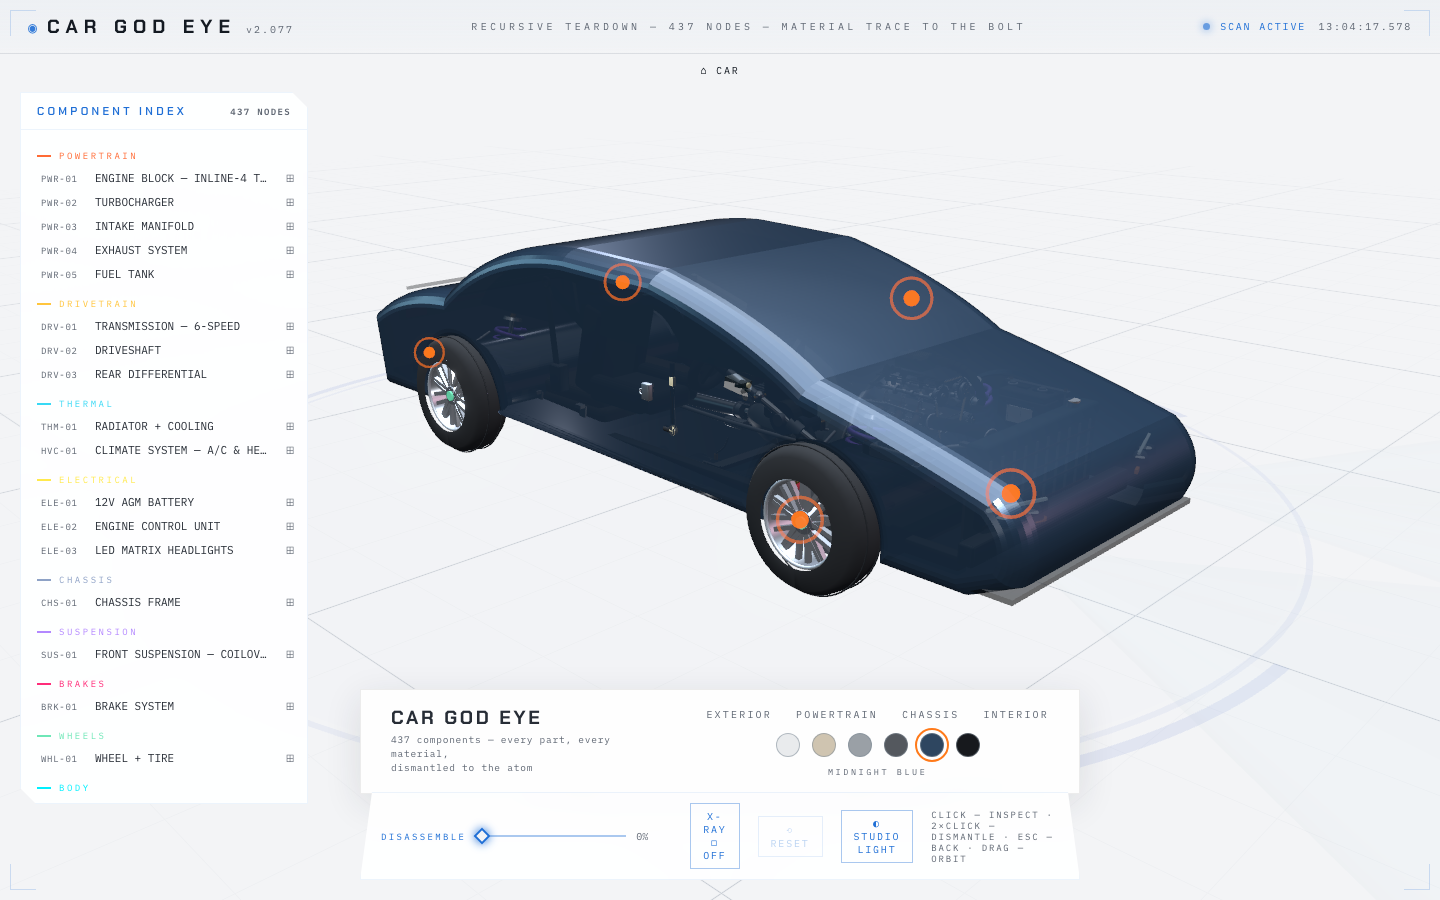
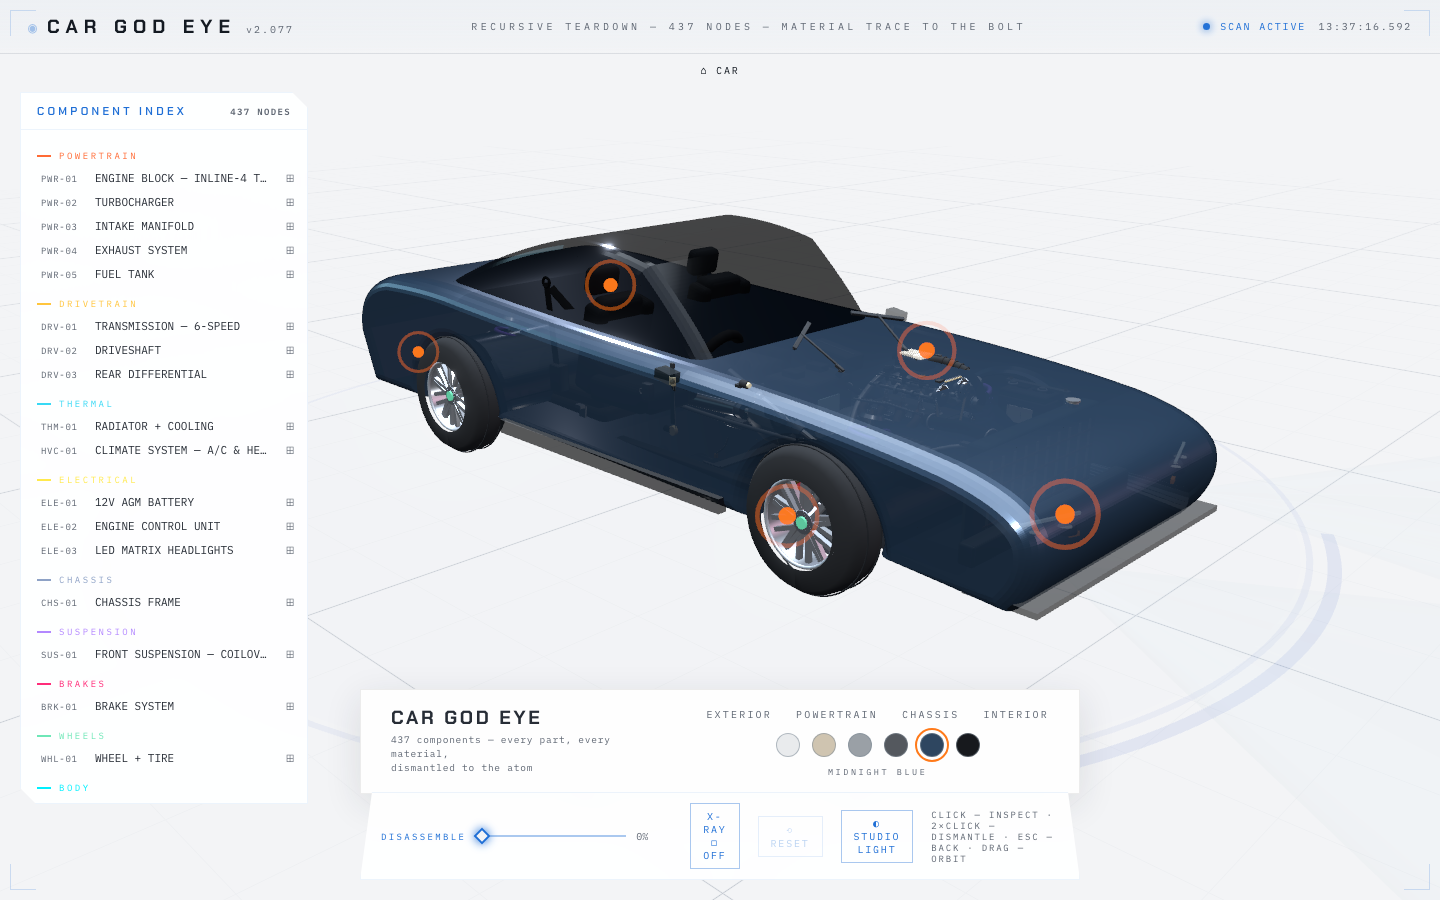
Real car body: fastback GT silhouette, smoked glass canopy, layered paint
- Lower body rebuilt: long hood, beltline, nose/tail fascias, decklid,
  oversized wheel-arch cuts (extrude bevel shrinks concave cuts at the
  outer skin, so arches are cut larger than the tires)
- Separate narrow greenhouse extrusion: raked windshield, glass roof,
  fastback — real tumblehome instead of the old one-box blob
- Smoked glass: black metal + damped envMapIntensity (HDR studio panels
  otherwise reflect as a flat grey sheet)
- Explicit transparency layering inside the shell PartGroup: body 10,
  trim 11, glass 12 — depth-sorted transparency let the far body wall
  paint over the canopy and the taillight bar
- Trim refit: mirrors to the A-pillar, rocker strips, repositioned
  splitter/diffuser/taillight bar/ducktail/headlights, hotspots on the
  new surfaces

Changed region(s): [[0.25, 0.2178, 0.8438, 0.6844], [0.3438, 0.4667, 0.5938, 0.6222], [0.5938, 0.6222, 0.6562, 0.6533]]

diff --git a/src/scene/CarModel.tsx b/src/scene/CarModel.tsx
@@ -48,51 +48,58 @@ function BayMount({ children }: { children: React.ReactNode }) {
 
 function useBodyGeo() {
   return useMemo(() => {
+    // lower body: tail → decklid → beltline → hood → nose, then rocker with
+    // wheel arches. NOTE the extrude bevel inflates the contour outward at the
+    // side skins, which SHRINKS concave cuts — arches are oversized to stay
+    // open around the tires at the visible skin.
     const s = new THREE.Shape()
-    s.moveTo(-2.15, 0.3)
-    s.lineTo(-2.2, 0.62)
-    s.quadraticCurveTo(-1.9, 0.8, -1.45, 0.82)
-    s.quadraticCurveTo(-1.0, 1.18, -0.35, 1.2)
-    s.lineTo(0.3, 1.18)
-    s.quadraticCurveTo(0.9, 1.05, 1.25, 0.84)
-    s.quadraticCurveTo(1.8, 0.72, 2.2, 0.6)
-    s.quadraticCurveTo(2.32, 0.5, 2.27, 0.38)
-    s.lineTo(2.1, 0.3)
-    s.lineTo(1.77, 0.3)
-    s.absarc(1.35, 0.3, 0.42, 0, Math.PI, false)
-    s.lineTo(-0.93, 0.3)
-    s.absarc(-1.35, 0.3, 0.42, 0, Math.PI, false)
+    s.moveTo(-2.22, 0.3) // rear bumper bottom
+    s.lineTo(-2.32, 0.56) // rear fascia
+    s.quadraticCurveTo(-2.33, 0.8, -2.0, 0.86) // tail corner
+    s.quadraticCurveTo(-1.6, 0.885, -1.28, 0.858) // decklid / rear haunch
+    s.quadraticCurveTo(-0.4, 0.8, 0.55, 0.78) // beltline → cowl
+    s.quadraticCurveTo(1.5, 0.748, 2.02, 0.675) // hood
+    s.quadraticCurveTo(2.33, 0.62, 2.37, 0.52) // nose tip
+    s.quadraticCurveTo(2.4, 0.42, 2.3, 0.3) // front bumper
+    s.lineTo(1.818, 0.3) // to front arch
+    s.absarc(1.35, 0.26, 0.47, 0.0853, Math.PI - 0.0853, false) // front arch
+    s.lineTo(-0.882, 0.3) // rocker
+    s.absarc(-1.35, 0.26, 0.47, 0.0853, Math.PI - 0.0853, false) // rear arch
     s.closePath()
     const geo = new THREE.ExtrudeGeometry(s, {
-      depth: 1.3,
+      depth: 1.4,
       bevelEnabled: true,
-      bevelThickness: 0.14,
-      bevelSize: 0.1,
-      bevelSegments: 7,
-      curveSegments: 40,
+      bevelThickness: 0.13,
+      bevelSize: 0.08,
+      bevelSegments: 6,
+      curveSegments: 48,
     })
-    geo.translate(0, 0, -0.65)
+    geo.translate(0, 0, -0.7)
     return geo
   }, [])
 }
 
 function useGlassGeo() {
   return useMemo(() => {
+    // greenhouse: raked windshield → glass roof → fastback. Extruded narrower
+    // than the body for tumblehome; base line sits on the beltline.
+    // wound clockwise like the body profile — the reverse winding flips the
+    // extrusion's side-wall normals and the canopy renders inside-out
     const s = new THREE.Shape()
-    s.moveTo(-1.38, 0.84)
-    s.quadraticCurveTo(-1.0, 1.15, -0.36, 1.17)
-    s.lineTo(0.28, 1.15)
-    s.quadraticCurveTo(0.85, 1.02, 1.16, 0.84)
+    s.moveTo(-1.7, 0.872) // fastback base
+    s.quadraticCurveTo(-1.1, 1.17, -0.5, 1.295) // fastback glass
+    s.quadraticCurveTo(-0.18, 1.3, 0.08, 1.24) // roof
+    s.quadraticCurveTo(0.42, 0.95, 0.52, 0.775) // windshield → cowl
     s.closePath()
     const geo = new THREE.ExtrudeGeometry(s, {
-      depth: 1.0,
+      depth: 1.2,
       bevelEnabled: true,
       bevelThickness: 0.1,
-      bevelSize: 0.08,
+      bevelSize: 0.07,
       bevelSegments: 5,
-      curveSegments: 32,
+      curveSegments: 36,
     })
-    geo.translate(0, 0, -0.5)
+    geo.translate(0, -0.045, -0.6) // sink the base into the beltline — no seam
     return geo
   }, [])
 }
@@ -464,8 +471,8 @@ function Ecu() {
 function Headlights() {
   return (
     <PartGroup id="headlights" explode={[1.1, 0.35, 0]}>
-      {[0.52, -0.52].map((z) => (
-        <group key={z} position={[2.17, 0.52, z]} rotation={[0, -Math.sign(z) * 0.32, 0]}>
+      {[0.54, -0.54].map((z) => (
+        <group key={z} position={[2.33, 0.51, z]} rotation={[0, -Math.sign(z) * 0.32, 0]}>
           {/* smoked housing */}
           <RBox args={[0.07, 0.1, 0.34]} radius={0.02} smoothness={3}>
             <Mat color="#0a0e14" e={0.03} metal={0.3} rough={0.3} opacity={0.65} depthWrite={false} />
@@ -515,7 +522,7 @@ function Headlights() {
 const HOLO_SHELL = new THREE.Color('#071c26')
 const HOLO_SHELL_E = new THREE.Color('#00f0ff')
 const GLASS_HOLO = new THREE.Color('#03141c')
-const GLASS_SOLID = new THREE.Color('#0b1016')
+const GLASS_SOLID = new THREE.Color('#06080c')
 
 function BodyShell() {
   const geo = useBodyGeo()
@@ -543,15 +550,23 @@ function BodyShell() {
     }
     const g = glassMat.current
     if (g) {
-      g.userData.baseO = showroom ? 0.88 : xray ? 0.04 : 0.3
+      g.userData.baseO = showroom ? 0.94 : xray ? 0.04 : 0.3
+      g.userData.baseE = showroom ? 0 : 0.04
       g.color.lerp(showroom ? GLASS_SOLID : GLASS_HOLO, k)
+      // smoked glass: black metal + damped env, or the HDR studio panels
+      // reflect as a washed-out grey sheet
+      g.metalness = showroom ? 1.0 : 0
+      g.roughness = showroom ? 0.08 : 0.06
+      g.envMapIntensity = showroom ? 0.5 : 1
     }
   })
 
   return (
     <PartGroup id="bodyshell" explode={[0, 1.6, 0]} passThrough={passThrough} renderOrder={10}>
-      {/* main shell */}
-      <mesh geometry={geo}>
+      {/* main shell — explicit renderOrder: the glass must blend AFTER the
+          body or the far body wall paints over the canopy (glass writes no
+          depth) */}
+      <mesh geometry={geo} renderOrder={10}>
         <meshPhysicalMaterial
           ref={shellMat}
           color="#071c26"
@@ -568,7 +583,7 @@ function BodyShell() {
         />
       </mesh>
       {/* glass canopy */}
-      <mesh geometry={glassGeo} scale={[1, 1, 0.94]}>
+      <mesh geometry={glassGeo} scale={[1, 1, 0.94]} renderOrder={12}>
         <meshPhysicalMaterial
           ref={glassMat}
           color="#03141c"
@@ -582,56 +597,63 @@ function BodyShell() {
         />
       </mesh>
       {/* mirrors */}
-      {[0.84, -0.84].map((z) => (
-        <group key={z} position={[0.95, 0.88, z]} rotation={[0, 0, -0.15]}>
-          <mesh>
+      {[0.87, -0.87].map((z) => (
+        <group key={z} position={[0.52, 0.84, z]} rotation={[0, 0, -0.15]}>
+          <mesh renderOrder={11}>
             <boxGeometry args={[0.1, 0.05, 0.07]} />
             <Mat color="#0d2a36" e={0.15} metal={0.4} rough={0.3} opacity={0.75} />
           </mesh>
-          <mesh position={[0.02, -0.05, -Math.sign(z) * 0.03]} rotation={[Math.sign(z) * 0.5, 0, 0]}>
+          <mesh renderOrder={11} position={[0.02, -0.05, -Math.sign(z) * 0.03]} rotation={[Math.sign(z) * 0.5, 0, 0]}>
             <boxGeometry args={[0.015, 0.06, 0.02]} />
             <Mat color="#0d2a36" e={0.12} opacity={0.75} />
           </mesh>
         </group>
       ))}
       {/* front splitter */}
-      <mesh position={[2.2, 0.27, 0]}>
-        <boxGeometry args={[0.3, 0.025, 1.52]} />
+      <mesh renderOrder={11} position={[2.3, 0.26, 0]}>
+        <boxGeometry args={[0.34, 0.028, 1.56]} />
         <Mat color="#10151d" e={0.08} rough={0.6} opacity={0.85} depthWrite={false} />
       </mesh>
+      {/* rocker trim (visual lightness under the doors) */}
+      {[0.84, -0.84].map((z) => (
+        <mesh key={z} renderOrder={11} position={[0, 0.275, z]}>
+          <boxGeometry args={[1.7, 0.075, 0.05]} />
+          <Mat color="#10151d" e={0.06} rough={0.7} opacity={0.9} depthWrite={false} />
+        </mesh>
+      ))}
       {/* rear diffuser + fins */}
-      <mesh position={[-2.1, 0.28, 0]} rotation={[0, 0, -0.12]}>
-        <boxGeometry args={[0.26, 0.025, 1.4]} />
+      <mesh renderOrder={11} position={[-2.18, 0.27, 0]} rotation={[0, 0, -0.12]}>
+        <boxGeometry args={[0.26, 0.025, 1.44]} />
         <Mat color="#10151d" e={0.08} rough={0.6} opacity={0.85} depthWrite={false} />
       </mesh>
       {[-0.4, 0, 0.4].map((z) => (
-        <mesh key={z} position={[-2.1, 0.23, z]} rotation={[0, 0, -0.12]}>
+        <mesh key={z} renderOrder={11} position={[-2.18, 0.22, z]} rotation={[0, 0, -0.12]}>
           <boxGeometry args={[0.24, 0.07, 0.015]} />
           <Mat color="#10151d" e={0.1} opacity={0.85} depthWrite={false} />
         </mesh>
       ))}
       {/* tail light assembly: smoked housing + light-bar + brake blocks + reverse */}
-      <mesh position={[-2.19, 0.66, 0]}>
-        <boxGeometry args={[0.045, 0.09, 1.28]} />
+      <mesh renderOrder={11} position={[-2.33, 0.76, 0]}>
+        <boxGeometry args={[0.05, 0.095, 1.34]} />
         <Mat color="#12060a" e={0.05} metal={0.3} rough={0.25} opacity={0.6} depthWrite={false} />
       </mesh>
-      <mesh position={[-2.2, 0.675, 0]}>
-        <boxGeometry args={[0.018, 0.022, 1.18]} />
+      <mesh renderOrder={11} position={[-2.345, 0.775, 0]}>
+        <boxGeometry args={[0.018, 0.022, 1.26]} />
         <Mat color="#ff3355" e={2.0} metal={0} depthWrite={false} />
       </mesh>
-      {[0.52, -0.52].map((z) => (
-        <mesh key={z} position={[-2.2, 0.64, z]}>
+      {[0.56, -0.56].map((z) => (
+        <mesh key={z} renderOrder={11} position={[-2.345, 0.74, z]}>
           <boxGeometry args={[0.02, 0.045, 0.14]} />
           <Mat color="#ff2233" e={1.2} metal={0} depthWrite={false} />
         </mesh>
       ))}
-      <mesh position={[-2.2, 0.63, 0]}>
+      <mesh renderOrder={11} position={[-2.345, 0.73, 0]}>
         <boxGeometry args={[0.018, 0.035, 0.1]} />
         <Mat color="#eef3f8" e={0.8} metal={0} depthWrite={false} />
       </mesh>
       {/* ducktail lip */}
-      <mesh position={[-2.05, 0.84, 0]} rotation={[0, 0, 0.25]}>
-        <boxGeometry args={[0.14, 0.02, 1.25]} />
+      <mesh renderOrder={11} position={[-1.98, 0.9, 0]} rotation={[0, 0, 0.22]}>
+        <boxGeometry args={[0.15, 0.02, 1.3]} />
         <Mat color="#0d2a36" e={0.2} metal={0.4} opacity={0.6} depthWrite={false} />
       </mesh>
     </PartGroup>
@@ -717,11 +739,11 @@ function Steering() {
 /* ------------------------- showroom hotspot markers ------------------------ */
 
 const HOTSPOTS: { id: string; pos: [number, number, number] }[] = [
-  { id: 'engine', pos: [1.25, 1.18, 0] },
-  { id: 'headlights', pos: [2.18, 0.62, 0.55] },
-  { id: 'wheels', pos: [1.45, 0.42, 0.98] },
-  { id: 'seats', pos: [-0.35, 1.08, 0.38] },
-  { id: 'exhaust', pos: [-2.25, 0.35, 0.42] },
+  { id: 'engine', pos: [1.35, 0.95, 0] },
+  { id: 'headlights', pos: [2.42, 0.6, 0.55] },
+  { id: 'wheels', pos: [1.35, 0.4, 0.95] },
+  { id: 'seats', pos: [-0.45, 1.05, 0.38] },
+  { id: 'exhaust', pos: [-2.38, 0.33, 0.42] },
 ]
 
 function Hotspot({ id, pos }: { id: string; pos: [number, number, number] }) {
